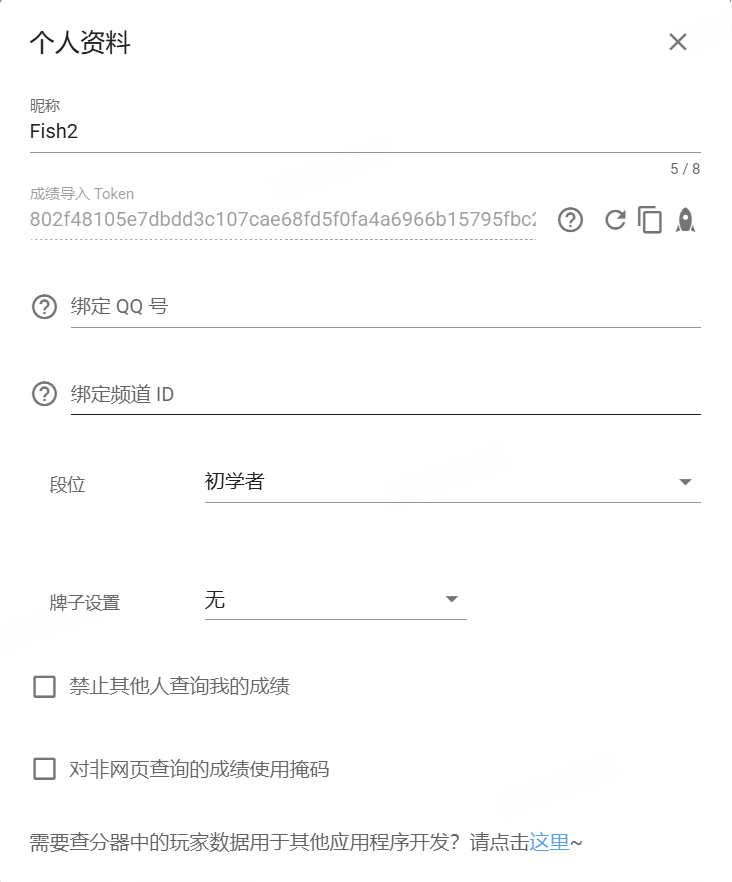
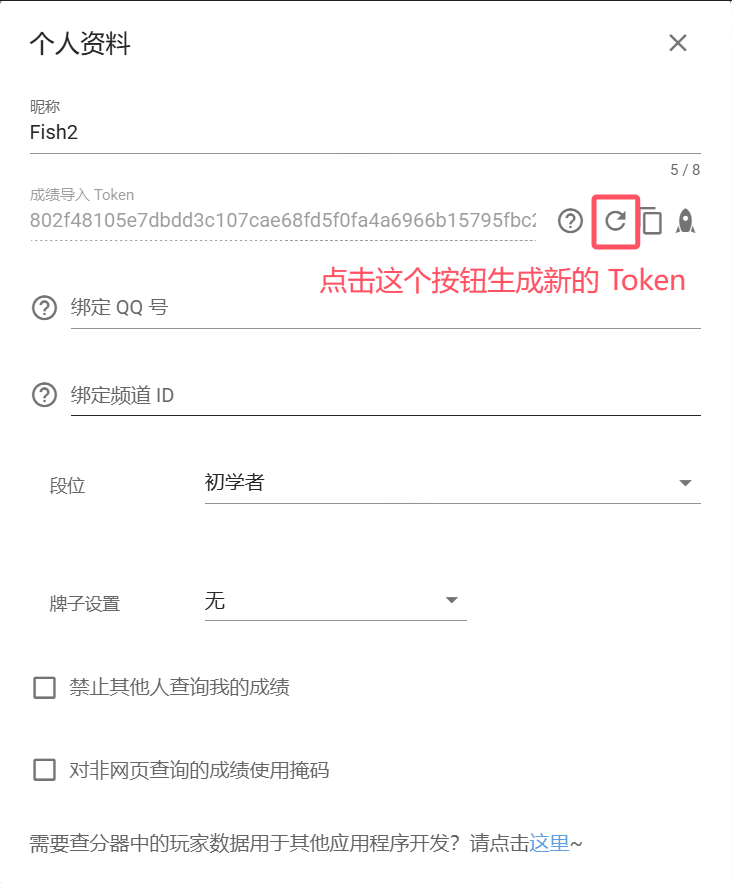
[modify] fix documents, change /query/plate to developer only

diff --git a/database/routes/maimai.py b/database/routes/maimai.py
@@ -373,6 +373,7 @@ async def query_player():
 
 
 @app.route("/query/plate", methods=['POST'])
+@developer_required
 async def query_plate():
     """
     获取某个用户的牌子信息。

diff --git a/doc/docs/intro.md b/doc/docs/intro.md
@@ -51,6 +51,10 @@ sidebar_position: 1
 
 登录状态下，点击页面右上角的【编辑个人资料】，会弹出如下面板。
 
+除了必须 **点击下图中红框圈起来的图标** 生成一个 **成绩导入 Token** 用于成绩导入外，其他选项可以依靠您的喜好设置。
+
+生成完毕之后，您可以点击 **该图标右侧的复制图标** 将它复制到剪切板中。
+
 ![](/img/intro-profile.png)
 
 | 设置项 | 说明 |
@@ -63,5 +67,3 @@ sidebar_position: 1
 | 牌子设置 | 装饰用 |
 | 禁止其他人查询我的成绩 | 勾选后，除登录网页查分器和 Token 以外的方案都无法获取成绩 |
 | 对非网页查询的成绩使用掩码 | 勾选后，第三方工具获取的成绩数值将是一个不影响分数的最低值 |
-
-除了必须生成一个**成绩导入 Token** 用于成绩导入外，其他选项可以依靠您的喜好设置。

diff --git a/doc/docs/update-records/proxy.md b/doc/docs/update-records/proxy.md
@@ -41,7 +41,7 @@ chmod +x <文件名>
 PS：不懂就直接看视频教程吧
 </details>
 
-之后，填写`config.json`文件。使用记事本、Notepad++ 或 VS Code 等文本编辑器打开`config.json`，并将刚刚生成的成绩导入 Token 写入对应区域的引号中，类似这样：
+之后，填写`config.json`文件。使用记事本、Notepad++ 或 VS Code 等文本编辑器打开`config.json`，并将 [刚刚生成的成绩导入 Token](/docs/intro.md#完成设置并生成导入-token) 写入对应区域的引号中，类似这样：
 
 ```json
[1 lines of base64/hex data omitted]
